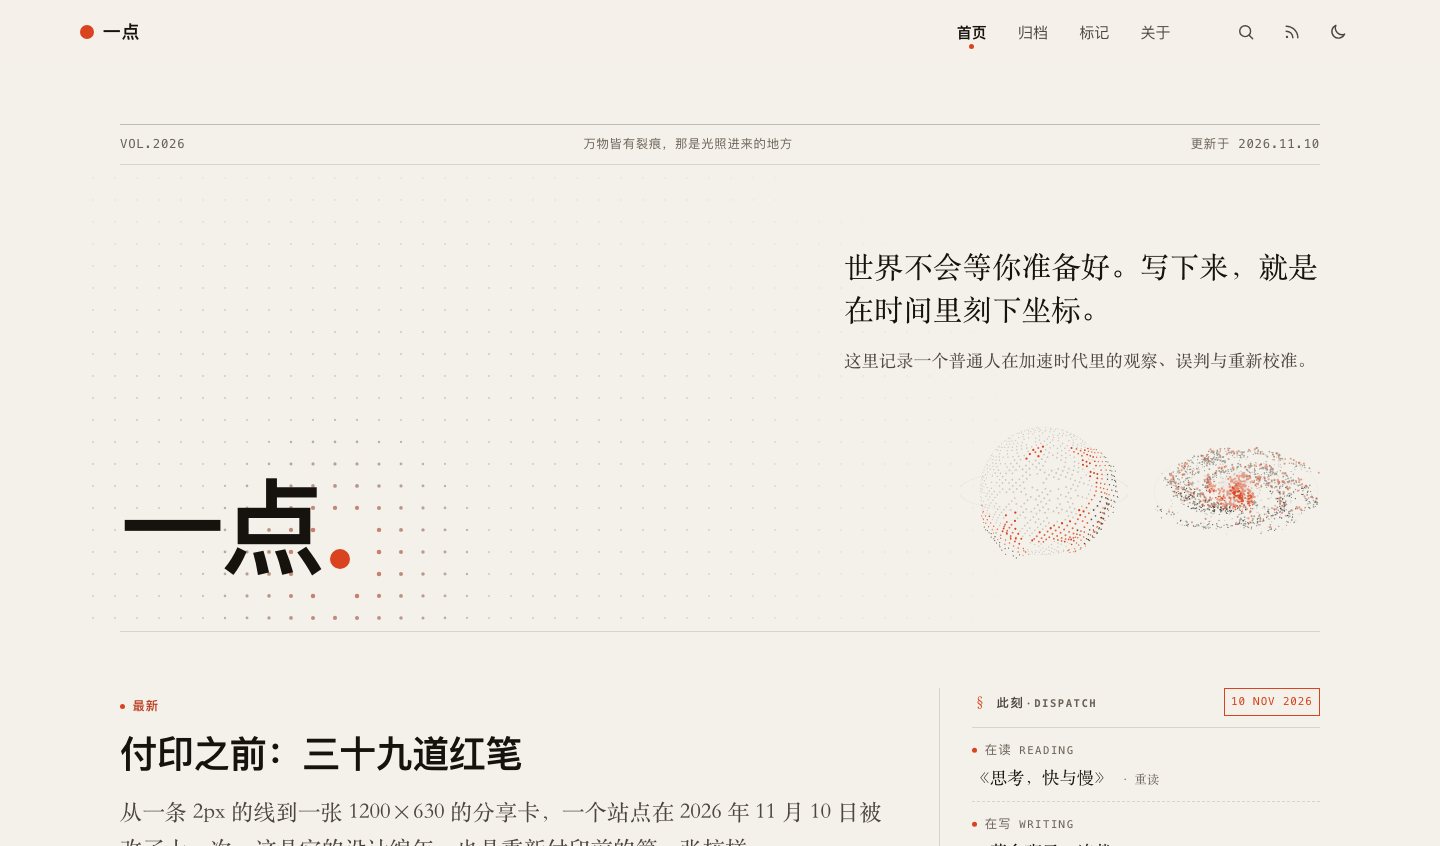
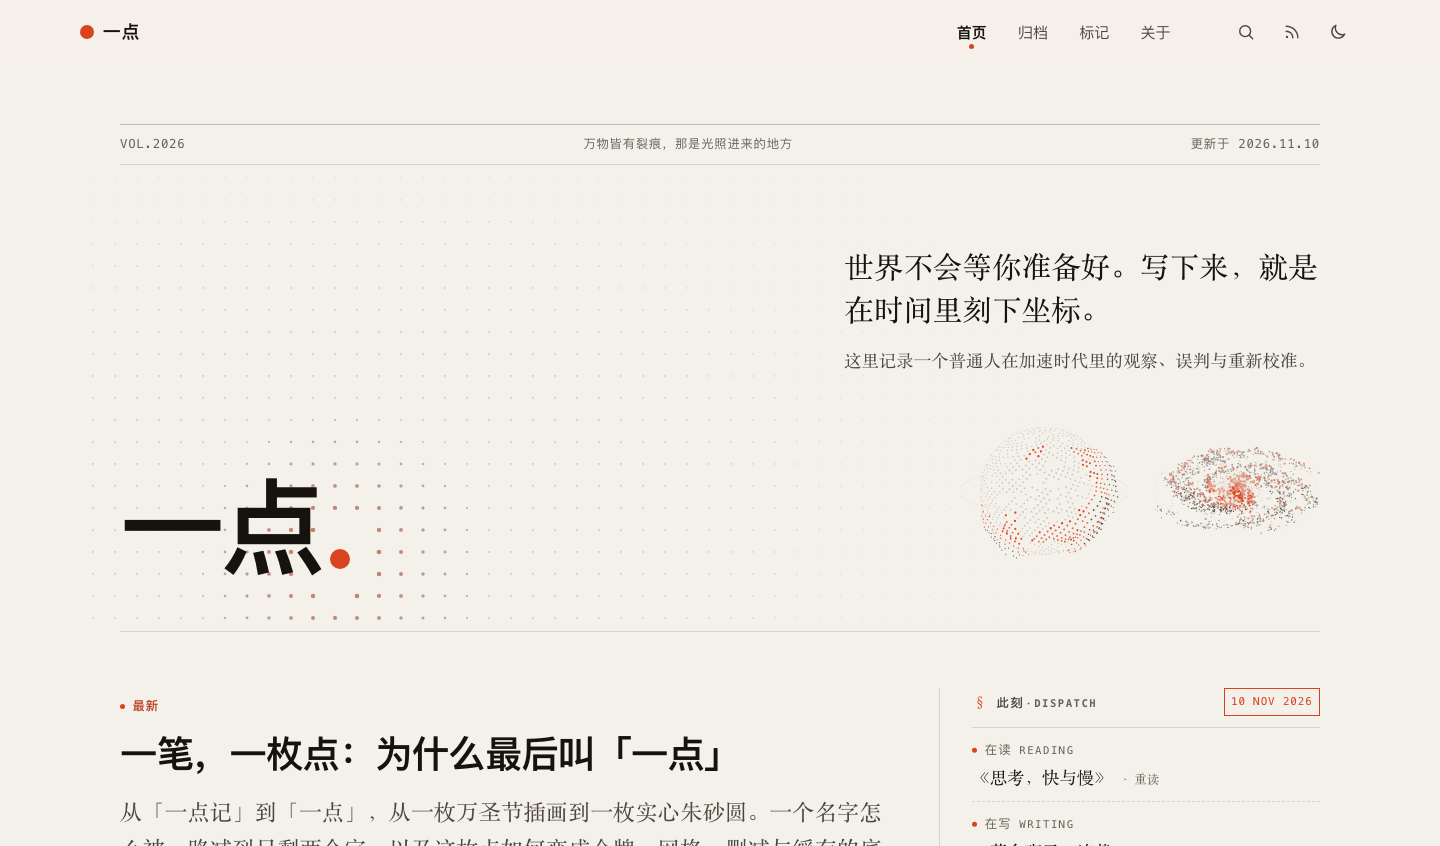
content: 发布品牌长文《一笔，一枚点：为什么最后叫「一点」》
- 约 4100 字，素材全部取自 REFACTOR 真实命名史：
  「一点记」→「一点」、方印→一笔一朱点→5×5 点阵→实心圆
- 主线「从一点量出去」：慢起点（光标与落下的一枚点）、
  四重身份（量词/动作/图形/态度）、四层规则
  （令牌/网格/删减/缓存）、划掉的清单、编年表，
  结尾停在那枚 21px 朱砂圆不总结
- 6 张配图：5 张手绘 SVG（名字与符号双轨收敛、点的尺寸谱系、
  四重身份、以点为心的四层同心圆、带删除线的划掉清单）
  + 复用 v4 分享卡；零外链零生成额度
- date 带时分，发布后成为首页头条
- README 主标题旧标语「向死而生」改「独立写作」、
  新增品牌长文条目、性能基线、节数 46；
  REFACTOR 第四十六节；首页明暗截图重拍

验证：214 页 / 338 文件 / 8.5 MiB，6 张图全部加载 0 失效，
5 张 SVG XML 合法，明暗长图与 4 页控制台 0 报错

Changed region(s): [[0.0938, 0.9527, 0.625, 1.0], [0.0625, 0.8605, 0.5, 0.922]]

diff --git a/content/posts/一笔，一枚点：为什么最后叫「一点」.md b/content/posts/一笔，一枚点：为什么最后叫「一点」.md
@@ -1,0 +1,117 @@
+---
+title: 一笔，一枚点：为什么最后叫「一点」
+date: 2026-11-10T19:50:00+08:00
+tags:
+  - 设计
+  - 品牌
+  - 排版
+  - 一点
+draft: false
+toc: true
+description: 从「一点记」到「一点」，从一枚万圣节插画到一枚实心朱砂圆。一个名字怎么被一路减到只剩两个字，以及这枚点如何变成令牌、网格、删减与缓存的底层规则。
+---
+
+打开一个新文档，光标在左上角闪。标题栏空着，正文也空着。手指搭在键盘上，半天没敲下去。
+
+后来敲的不是标题，是一个点。就一个，落在页面中间偏左的地方。纸太白了，得先有个东西替你把位置占住，后面的字才知道往哪儿排。
+
+这篇要讲的，就是这个点，和它后面跟着的两个字。
+
+![纸上先落一枚点](/img/one-point/01-name.svg)
+
+## 名字里那个多余的字
+
+这个站最早叫「一点记」。三个字，念起来顺口，也像那么回事——「记」是个品类后缀，笔记、日记、游记，一挂上去，读者就知道该用哪种姿势读。
+
+可站里慢慢躺进了别的东西。二十四篇随笔之外，有两部连载小说，各带三章点线目录；有几个独立应用的截图和说明；还有一份写到第四十五节的重构记录，里面全是字号、像素和缓存头。一本「记」装不下这些。
+
+另一头，纸面上早就不带这个字了。V10 之后整站只有一枚朱砂圆点：顶栏站名后面、导航当前项、列表悬停的游标、阅读进度的珠子、焦点环、刊头那个句点、正文中间的「· · ·」，全是它。同一个形状出现在八个位置，谁也没多带一个笔画。
+
+名字比符号多了一个字。
+
+2026 年 11 月 9 日，V10.5 把「记」去掉，站名收敛成「一点」。理由记在重构记录里，很短：「记」是品类后缀，可站里同时有随笔、小说连载和应用，一个「记」字反而说不清这是什么；而整套视觉的品牌原子本来就叫「一点」。
+
+文字得追上纸面，而不是反过来。
+
+## 一枚点换过四件衣服
+
+名字在收，符号那头也一直在换。
+
+最早挂在页头的是一张 88KB 的万圣节插画，黑底骷髅，写着 Happy Halloween。它和这个站没有任何关系，只是一直没人去动。V4 把它换成一枚内联 SVG 方印：朱砂底，站名前四字刻成 2×2，颜色走 CSS 变量，暗色自动跟着翻。
+
+V10.2 方印也下线了。改成把「一点记」三个字拆开写：一笔横画「一」，加一枚朱砂的「、」。横画起笔厚 16、行笔提到 9、收笔顿住回锋，`feTurbulence` 配 `feDisplacementMap` 蹭出宣纸洇墨的毛边；动画分三拍，750 毫秒运笔写出横画，点从上方落下、压扁、回弹，落点再荡开一圈涟漪。横是墨色，点是朱砂，纸墨朱三色在一枚标记里齐了。
+
+V10.5 又嫌它太素。一枚实心圆从顶栏复用到底，换个栏目看不出任何区别，信息量太低。于是做了一组 5×5 的点阵，按栏目重排形状：首页是圆，21 点；归档和随笔是方，16 点；应用是三角，17 点；虚构是弧，11 点；关于、标记、标签页是十字，9 点。格心坐标从 0.5 排到 4.5，半径 `r=0.32`，纯 SVG，零脚本零请求。涟漪场的波心还得给它让路——`CLEAR=38`，半径内的网格点全部跳过，形状独占中间那块，水波从外圈荡开。
+
+今天上午，一句话把这套形状停了：「一点后面的那个点，采用实心纯色图案」。三处一起换回实心朱砂圆：顶栏 `.brand-dot` 14px，刊头 `.masthead-dot` `.19em`，此刻落款 `.dispatch-mark` 8px。颜色还是跟着 `--zhu` 走，明暗各一套。点阵那两个文件没删，留着，零引用。
+
+同一个品牌原子不该有两种形态。
+
+![站内所有点的尺寸与位置](/img/one-point/02-atom.svg)
+
+那杯水又凉了一点。
+
+## 一个词能同时是四样东西
+
+「一点」这两个字之所以能撑住一整个站，是因为它不是一个意思，是四个叠在一起。
+
+**它是量词。** 一点点，不多。首页只有一条头条、两篇次条、两部连载卡片，剩下交给按主题读和一条按时间排的列表。没有五类同色的盒子铺满首屏，也没有每篇文章都配一张题图。二十四篇随笔，不是二百四十篇。
+
+**它是动作。** 点一下，或者笔尖落下去那一下。刊头那枚点每 3.8 秒荡开一圈涟漪，点阵场以它的包围盒中心为波心；右侧那颗星盘被点一下，会回两圈椭圆脉冲。阅读页的章节目录是一簇紧挨的点，读到哪儿，进度珠就在那一簇里挪到哪儿。
+
+**它是图形。** 一枚圆。`--zhu` 明色 `#d9431f`、暗色 `#ff5b36`，派生出 `--zhu-ink`、`--zhu-line`、`--zhu-wash`。引用块线头那枚 7px 的圆、h3 前缀 `.3em` 的圆、列表项 `.32em` 的圆、分隔线正中的朱砂点、分享卡上半径 21px 的圆，都是同一个色值换了个尺寸。
+
+**它是态度。** 克制不是一句形容词，是每次都能拿尺子量出来的决定：删掉一层框线，少一个请求，少一个字重，少一个后缀。
+
+一个词能同时当量词、动作、图形和态度用，它才管得住名字、图标、交互和内容这四样原本各说各话的东西。
+
+![一个词的四重身份](/img/one-point/03-meanings.svg)
+
+## 从这一点量出去
+
+底下的规则，其实都是从这枚点往外量出来的，一共四层。
+
+**令牌层**管颜色、字号、间距。明暗两套主题只换变量的值，不换结构，所以把引用块的折角引号换成线头圆点时，不需要为深色再写一遍。`--step--2` 到 `--step-5` 用 `clamp()` 在 360 到 1440 之间插值，最小 `.72rem`，最大 `7.2rem`；改字号优先写 `calc(var(--step-3) * .9)`，不另造一个 `clamp()`。新数值越多，纸面越容易走形。
+
+**网格层**管东西放在哪儿。目录页外壳 1200px，正文栏 980px，宽屏右侧匀出约 160px 放章节目录；`--rd-measure` 已经替侧栏扣过通道，标题就写 `min(var(--rd-measure), 100%)`，1440 / 1280 / 1100 三档量下来是 980 / 864 / 684，与正文栏左右边界差 0，距目录稳定 24px。写成 `100%` 就等于把父容器当成了版心，超出的那 220px 迟早会从长标题的折行里冒出来。
+
+**删减层**管什么不出现。侠客整页、三个旧别名、友链组件、默认 favicon 图、一份没人读的 JSON；应用栏目；账页的上下框线；扉页的简介；正文里满屏的朱砂 `strong`；2px 的纯墨粗线；引用块那个像半个框的直角折角。构建产物从 203 页、316 个文件走到 211 页、330 个，中间少掉的东西比加进来的多。
+
+**缓存层**管别人多久之后能看到。`s-maxage=300` 加后台刷新，指纹化的 CSS / JS 缓存一年，图片 30 天，分享图和 HTML 每次校验。分享卡从 `header.png` 到 `v2`、`v3`、`v4`，每次换内容都换一次地址——平台记的是地址，不是文件。
+
+四层听起来是四件事，量的是同一把尺子：从一个点出发，只走必要的一步。
+
+![从一点量出去的四层规则](/img/one-point/04-rules.svg)
+
+## 划掉的那些字
+
+最能说明「一点」的，反而是被划掉的清单。
+
+「一点记」的「记」划掉了。「向死而生」那句旧标语划掉了，换成「写下来，就是在时间里刻下坐标」。万圣节骷髅划掉了，方印划掉了，5×5 点阵形状划掉了（文件还在，零引用）。两个各 683KB 的 woff2 划掉了，正文改用系统宋体，首屏从 1.57MB 一路降到 170KB。霞鹜文楷换成宋体之后，分享卡上的标语、底部分类、最后连大字「一点」也跟着换了宋体——卡片自己成了一套，不必再分标题黑体、正文宋体。
+
+删的时候没什么仪式感，就是打开编辑器，把一段样式删掉，跑一遍构建，看数字往下掉。桌上剩下的东西越少，那枚点越看得见。
+
+![被划掉的清单](/img/one-point/05-deletions.svg)
+
+## 编年
+
+| 版本 | 名字 / 符号 | 那次划掉了什么 |
+|---|---|---|
+| V4 | 万圣节插画 → 朱砂方印 | 一张 88KB 的骷髅图 |
+| V10 | 「一点记」· 全站一枚朱砂点 | 米色卡片、点阵 / 角标 / 点线 / 红点四种分隔 |
+| V10.2 | 一笔横画 + 一枚朱砂「、」 | 方印、`feTurbulence` 洇墨毛边留下的手工感 |
+| V10.3 | 一章书页 · 一点为引 | 旧阅读页的左对齐扉页与灰色元信息 |
+| V10.5 | 站名收敛为「一点」 | 「记」字；又给点加了 5×5 栏目形状 |
+| V10.16 | 实心朱砂圆 | 点阵形状，三处一起换回：14px / `.19em` / 8px |
+| V10.19 | 首页两篇次条、虚构书页 | 侠客整页与三个旧别名 |
+| V10.24 | 引用块线头 7px 圆点 | U+300C 那个像半个框的直角折角 |
+| V10.29 | 系统宋体 | 681KB 字体文件、`@font-face`、preload、裁剪脚本 |
+| V10.31 | 分享卡整体宋体 | 卡片上最后两个黑体字 |
+
+尺子还搁在键盘右边，只是上面又多贴了几道胶带。
+
+![一张 1200×630 的纸](/share/og-card-v4.png)
+
+关掉编辑器之前，屏幕上留着那张卡片。纸色底，两个宋体字，后面跟着一枚 21px 的朱砂圆。它不解释自己，也不指向别处。
+
+光标还在闪。

diff --git a/README.md b/README.md
@@ -1,4 +1,4 @@
-# 一点 · 向死而生
+# 一点 · 独立写作
 
 > 一个人的编辑部。世界不会等你准备好——写下来，就是在时间里刻下坐标。
 
@@ -85,8 +85,9 @@
 - **无障碍**：所有动效尊重 `prefers-reduced-motion`；正文级对比度按 WCAG AA 实算；读程 / 评论 / 目录按钮的展开状态同步 `aria-expanded`。
 - **分享与 SEO**：`head/siteinfo.html` 统一输出 title / canonical / description / OG / Twitter Card / JSON-LD；标题在非首页带站点名，描述按 front matter 优先链取并截断到 160 字。分享图优先用 `og_image` / `banner`，否则用 `static/share/og-card-v4.png`（1200×630，可用 `scripts/gen-og-image.py` 重生成）。文件名带版本号、放在独立的 `share/` 目录，是因为 X 按图片 URL 长期缓存卡片且 `_headers` 给 `/img/*` 设了 30 天缓存——换内容必须换 URL 才会被重新抓取。JSON-LD 按首页 `WebSite` / 文章 `BlogPosting` / 独立页 `WebPage` / 列表 `CollectionPage` 分流，全部走 `jsonify` 保证合法；`robots.txt` 默认放行并允许各类预览抓取器，只拦 AI 爬虫。文章页的「分享」按钮在桌面降级为复制「标题 + 摘要 + 链接」。
 - **重生第一篇**：`content/posts/付印之前：三十九道红笔.md` 是站点的设计编年长文，按 V10 → V10.25 复盘每一轮的取舍、前后数字与令牌 / 网格 / 内容 / 缓存四层底层规则，附完整编年表与 10 张配图（真实前后对比、手绘 SVG 示意、生成插画，均在 `static/img/rebirth/`）。
+- **品牌长文**：`content/posts/一笔，一枚点：为什么最后叫「一点」.md` 从「一点记」到「一点」的命名收敛、符号四次演变讲起，落到令牌 / 网格 / 删减 / 缓存四层底层规则，配 5 张手绘 SVG 与一张分享卡（`static/img/one-point/`）。
 
-重构过程、每一版的取舍与前后对比都记在 [REFACTOR.md](REFACTOR.md)（共 45 节，从诊断到 V10.31 卡片整体宋体）。
+重构过程、每一版的取舍与前后对比都记在 [REFACTOR.md](REFACTOR.md)（共 46 节，从诊断到品牌长文《一笔，一枚点》）。
 
 ## 目录结构
 
@@ -102,7 +103,7 @@
 ├── layouts/            # baseof · home · highlights · page · section · taxonomy · term + _partials/（含 components/dot-shape、tide）· _shortcodes/ · _markup/
 ├── scripts/            # dev-server · build-prod · gen-og-image · optimize-images · highlights
 ├── static/             # img/ · share/（版本化 OG 卡 og-card-v4.png）· pagefind/ · css/ · js/ · _headers · favicon.svg / .ico / apple-touch-icon.png
-├── REFACTOR.md         # 设计重构记录（45 节）
+├── REFACTOR.md         # 设计重构记录（46 节）
 └── MARKDOWN_GUIDE.md   # 写作语法与短代码速查
 ```
 
@@ -261,7 +262,7 @@ npm run build:uno:prod && npm run build   # 生产构建 → public/
 
 | 指标 | 数值 |
 |---|---|
-| 构建产物 | 211 页 / 330 个文件 / **8.4 MiB**（V10.28 大图转 WebP，V10.29 移除字体文件；相比最初的 14.4 MiB 少约 42%） |
+| 构建产物 | 214 页 / 338 个文件 / **8.5 MiB**（V10.28 大图转 WebP，V10.29 移除字体文件，随后新增两篇设计长文与配图；相比最初的 14.4 MiB 少约 41%） |
 | 首页请求 | 4 个（1 CSS + 2 JS + favicon 5KB，字体零请求），涟漪脚本内联在 HTML 里；本地实测首屏传输 **170KB** |
 | 首页 HTML | 47.5KB（gzip 后 16.0KB，含内联的 field / tide / galaxy 三份脚本、状态公报、两篇次条与虚构书页） |
 | 首页样式 | 156KB（gzip 后 28KB） |
